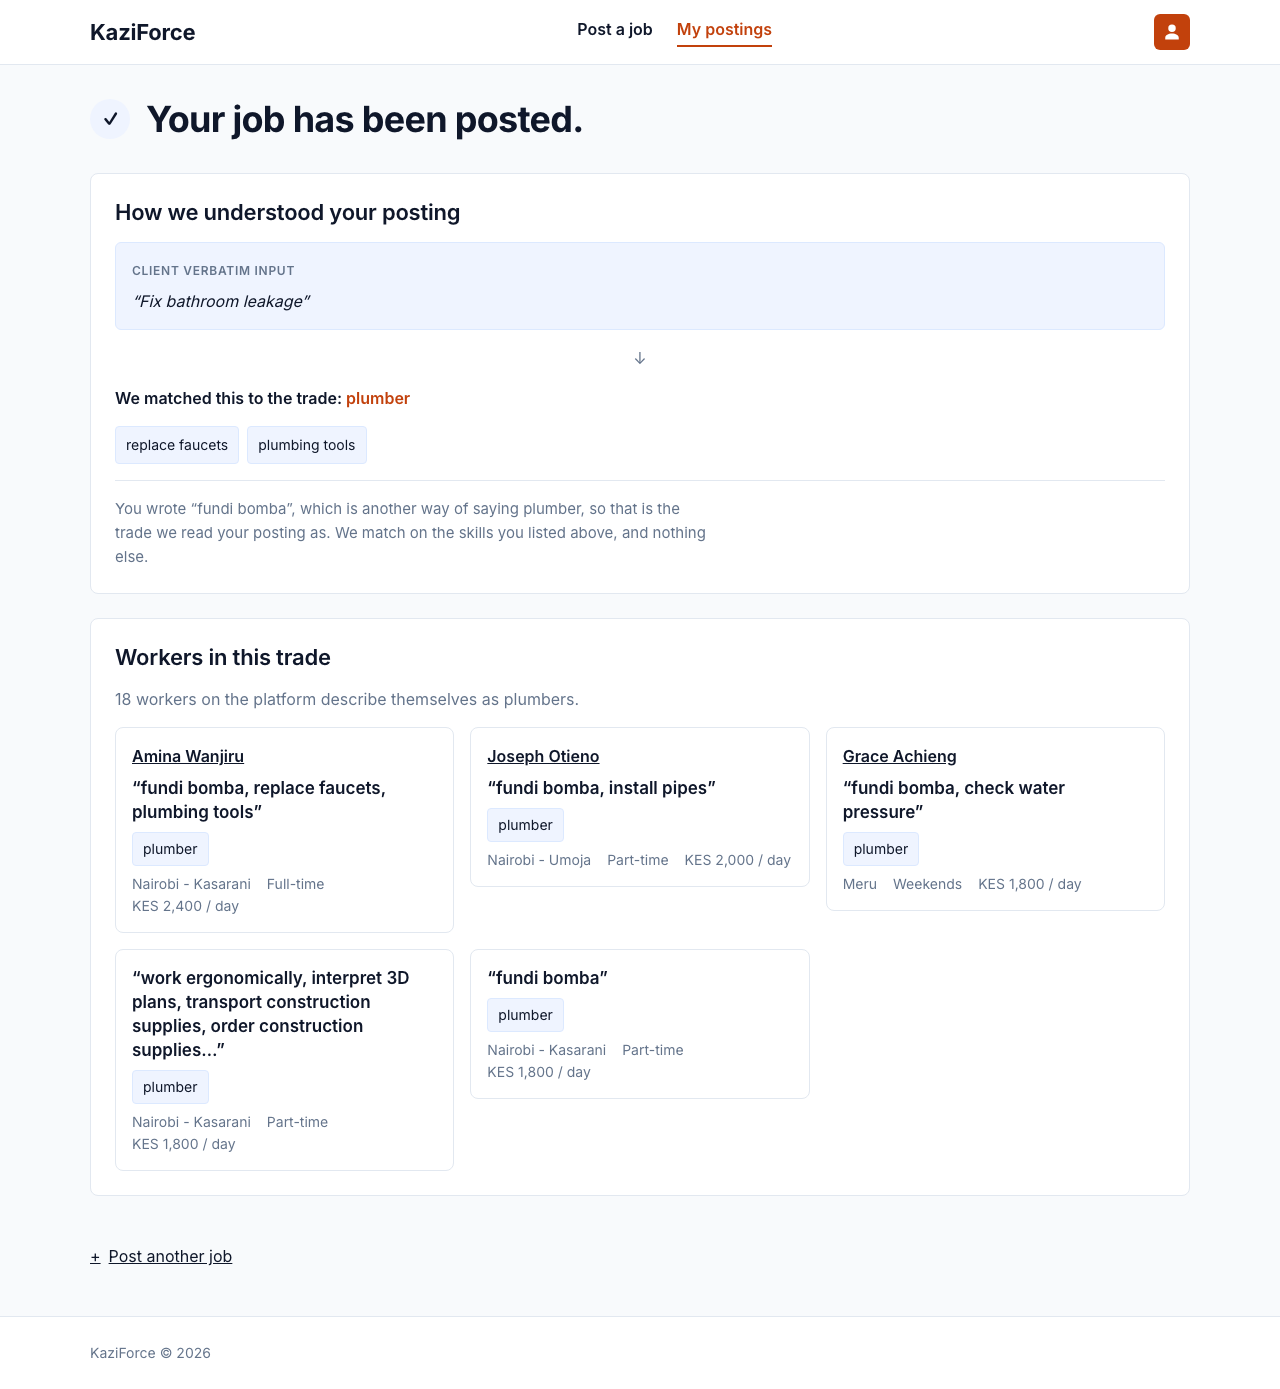
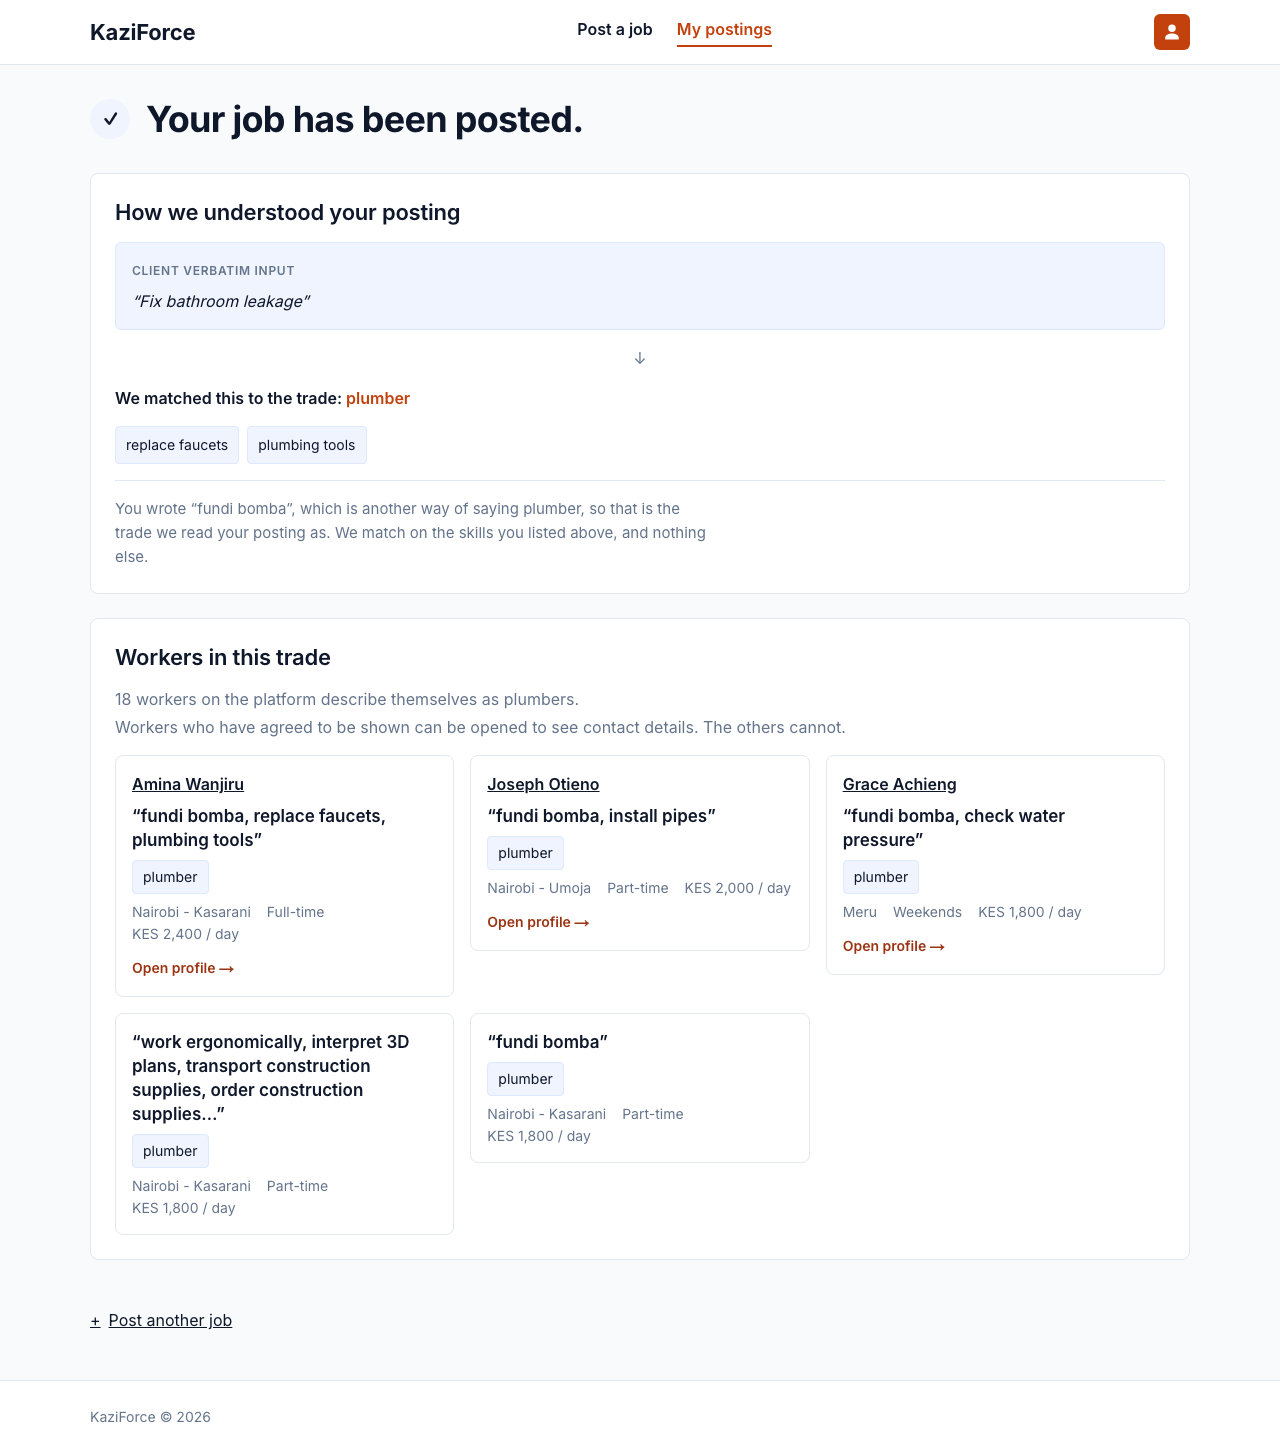
feat(web): a working-pattern field that says what it is, and trade-list cards that look openable
The job form's "When is it needed?" held a working pattern (Full-time, Part-time,
Weekends) that the scorer compares with a worker's availability. It is now labelled
"What working pattern does the job need?", the empty choice reads "No fixed pattern"
(also on the postings list), and a hint says what it is compared with. The stored option
values are unchanged and there is no date field.

On the posted-job screen, a sentence under "Workers in this trade" says which workers can
be opened. A worker who agreed to be shown is an openable card: the whole card is the link,
with an "Open profile" cue, a pointer, a visible focus outline and a tall target. Plain
cards stay plain; which workers appear, their number and their order are unchanged.

The demo seed gains two consenting workers each for carpenter, electrician and cook
(700 000 004 to 009), using the Kiswahili terms the vocabulary maps. seed_database.py and
the dataset are untouched.

Tests: component and end-to-end (both engines; they fail without the change), and a unit
test for the demo workers. One WorkerCard assertion changed on purpose: a named card now
adds an openable style.

diff --git a/apps/web/__tests__/PostingResultPage.test.tsx b/apps/web/__tests__/PostingResultPage.test.tsx
@@ -28,6 +28,8 @@ vi.mock("@/components/SessionProvider", async (importOriginal) => ({
 vi.mock("@/components/AppShell", () => ({ AppShell: ({ children }: { children: React.ReactNode }) => <>{children}</> }));
 
 const PLUMBER = { id: "occ:plumber", label: "plumber" };
+const NAMED = { describes_as: "fundi bomba", location: "Nairobi - Kasarani", availability: "Full-time" as const, rate_expectation: 2400, public_id: "11111111-2222-4333-8444-555555555555", name: "Amina Wanjiru" };
+const ANONYMOUS = { describes_as: "fundi bomba, install pipes", location: "Meru", availability: "Weekends" as const, rate_expectation: 1800 };
 const PARAMS = Promise.resolve({ postingId: "p-1" });
 
 function posting(over: Partial<JobInterpretation["interpretation"]>): JobInterpretation {
@@ -79,5 +81,30 @@ describe("a posting with skills listed", () => {
     expect(await screen.findByText(/We match on the skills you listed above, and nothing else/)).toBeInTheDocument();
     expect(screen.getByText("replace faucets")).toBeInTheDocument();
     expect(screen.queryByText(/You didn't list any skills/)).not.toBeInTheDocument();
+  });
+});
+
+describe("Workers in this trade", () => {
+  const shown = (sample: unknown[]) => posting({ worker_pool: [{ occupation: PLUMBER, workers: 18, sample: sample as never }] });
+
+  it("says which workers can be opened and which cannot, under the heading", async () => {
+    job.mockResolvedValue(shown([NAMED, ANONYMOUS]));
+    await show();
+
+    const heading = await screen.findByRole("heading", { name: "Workers in this trade" });
+    const note = screen.getByText("Workers who have agreed to be shown can be opened to see contact details. The others cannot.");
+    expect(heading.compareDocumentPosition(note) & Node.DOCUMENT_POSITION_FOLLOWING).toBeTruthy();
+  });
+
+  it("makes a worker who agreed an openable card, and leaves the others plain, in the order given", async () => {
+    job.mockResolvedValue(shown([ANONYMOUS, NAMED]));
+    await show();
+
+    const cards = await screen.findAllByRole("article");
+    expect(cards).toHaveLength(2);
+    expect(cards[0].textContent).toContain("install pipes"); // the order the API returned
+    expect(cards[0].querySelector("a")).toBeNull();
+    expect(cards[1].querySelector("a")).toHaveAccessibleName("Amina Wanjiru");
+    expect(screen.getAllByRole("link", { name: "Amina Wanjiru" })).toHaveLength(1);
   });
 });

diff --git a/apps/web/e2e/worker-contact.spec.ts b/apps/web/e2e/worker-contact.spec.ts
@@ -202,3 +202,37 @@ test("a signed-out visitor cannot open a worker's page", async ({ page }) => {
   await page.goto("/client/workers/00000000-0000-4000-8000-00000000dead");
   await expect(page).toHaveURL(/\/sign-in$/);
 });
+
+test("the trade list says which workers can be opened, and an openable card is one big, visible target", async ({ browser }) => {
+  const { context, page } = await newClient(browser);
+  await postPlumbingJob(page);
+
+  await expect(
+    view(page).getByText("Workers who have agreed to be shown can be opened to see contact details. The others cannot."),
+  ).toBeVisible();
+
+  const cards = view(page).locator("article");
+  const openable = cards.filter({ has: page.getByRole("link", { name: "Amina Wanjiru" }) });
+  const plain = cards.filter({ hasNot: page.getByRole("link") }).first();
+  await expect(openable).toBeVisible();
+  await expect(plain).toBeVisible();
+
+  // Visibly clickable: a cue on the card, a pointer, and a target well over 44 px high.
+  await expect(openable).toContainText("Open profile");
+  await expect(plain).not.toContainText("Open profile");
+  expect(await openable.evaluate((el) => getComputedStyle(el).cursor)).toBe("pointer");
+  expect(await plain.evaluate((el) => getComputedStyle(el).cursor)).not.toBe("pointer");
+  expect((await openable.boundingBox())!.height).toBeGreaterThanOrEqual(44);
+
+  // Keyboard: the name link takes focus and the card shows it.
+  await openable.getByRole("link", { name: "Amina Wanjiru" }).focus();
+  await expect(openable.getByRole("link", { name: "Amina Wanjiru" })).toBeFocused();
+  expect(await openable.evaluate((el) => getComputedStyle(el).outlineStyle)).not.toBe("none");
+
+  // The whole card opens the profile, not only the name.
+  const box = (await openable.boundingBox())!;
+  await page.mouse.click(box.x + box.width - 12, box.y + box.height - 12);
+  await expect(page).toHaveURL(/\/client\/workers\/[0-9a-f-]{36}\?posting=/);
+  await expect(view(page).getByRole("heading", { name: "Amina Wanjiru" })).toBeVisible();
+  await context.close();
+});

diff --git a/apps/web/__tests__/WorkerCard.test.tsx b/apps/web/__tests__/WorkerCard.test.tsx
@@ -88,11 +88,29 @@ describe("WorkerCard for a worker who has agreed to be shown", () => {
     expect(container.textContent).not.toMatch(/score|rank|match|best|top|#\d/i);
   });
 
-  it("is drawn the same as an anonymous card: one article, no emphasis", () => {
+  it("is still one article, drawn no larger than an anonymous card; the only difference is that it can be opened", () => {
     const { container: plain } = render(<WorkerCard worker={worker} trade="electrician" />);
     const { container: withName } = render(<WorkerCard worker={named} trade="electrician" />);
     expect(plain.querySelectorAll("article")).toHaveLength(1);
     expect(withName.querySelectorAll("article")).toHaveLength(1);
-    expect(withName.querySelector("article")?.className).toBe(plain.querySelector("article")?.className);
+    // Both share the base card style, so neither is larger or earlier; the named one adds only the openable style.
+    const named_ = withName.querySelector("article")!.className.split(" ").filter(Boolean);
+    const plain_ = plain.querySelector("article")!.className.split(" ").filter(Boolean);
+    expect(plain_).toHaveLength(1);
+    expect(named_.slice(0, 1)).toEqual(plain_);
+    expect(named_).toHaveLength(2);
+  });
+
+  it("looks openable: a link on the name, and a visible \"Open profile\" cue that is not read twice", () => {
+    const { container } = render(<WorkerCard worker={named} trade="electrician" />);
+    expect(screen.getByRole("link", { name: named.name! })).toHaveAttribute("href", expect.stringContaining("/client/workers/"));
+    const cue = container.querySelector('[aria-hidden="true"]');
+    expect(cue).toHaveTextContent("Open profile");
+  });
+
+  it("gives a card that cannot be opened no link and no cue", () => {
+    const { container } = render(<WorkerCard worker={worker} trade="electrician" />);
+    expect(screen.queryByRole("link")).not.toBeInTheDocument();
+    expect(container.textContent).not.toMatch(/Open profile/);
   });
 });

diff --git a/apps/web/__tests__/PostJobPage.test.tsx b/apps/web/__tests__/PostJobPage.test.tsx
@@ -163,3 +163,28 @@ describe("the skills field is optional, and the description comes first", () => 
     expect(createJob).not.toHaveBeenCalled();
   });
 });
+
+describe("the working-pattern field says what it is", () => {
+  it("is labelled as a working pattern, offers No fixed pattern, and keeps the stored option values", () => {
+    render(<Page />);
+    const field = screen.getByLabelText(/What working pattern does the job need\?/) as HTMLSelectElement;
+    expect(screen.queryByLabelText(/When is it needed/)).not.toBeInTheDocument();
+    const options = [...field.options].map((option) => [option.value, option.textContent]);
+    expect(options).toEqual([["", "No fixed pattern"], ["Full-time", "Full-time"], ["Part-time", "Part-time"], ["Weekends", "Weekends"]]);
+    expect(screen.queryByText(/No strict timeline/)).not.toBeInTheDocument();
+  });
+
+  it("sends the value as before, and nothing when it is left empty", async () => {
+    createJob.mockResolvedValue({ posting_id: "p-5" });
+    render(<Page />);
+    await userEvent.type(screen.getByLabelText(/What do you need done\?/), "Electrician needed, a socket keeps sparking");
+    await userEvent.type(screen.getByLabelText(/Job title/), "Fix a socket");
+    await userEvent.type(screen.getByLabelText(/Budget per day/), "1500");
+    await userEvent.selectOptions(screen.getByLabelText(/Where is the job\?/), "Nairobi - Kasarani");
+    await userEvent.selectOptions(screen.getByLabelText(/What working pattern does the job need\?/), "Weekends");
+    await userEvent.click(screen.getByRole("button", { name: /Post job/ }));
+
+    await waitFor(() => expect(createJob).toHaveBeenCalled());
+    expect(createJob.mock.calls[0][0]).toMatchObject({ availability: "Weekends" });
+  });
+});

diff --git a/apps/web/e2e/core-workflow.spec.ts b/apps/web/e2e/core-workflow.spec.ts
@@ -429,3 +429,29 @@ test("at 375px the matches list gives a job's title the row, and the header's li
     expect(box!.height, `"${await link.innerText()}" wraps`).toBeLessThan(34); // one line of 16 px text plus its underline
   }
 });
+
+test("the job form asks for a working pattern, not a date, and still stores the same values", async ({ page }) => {
+  await createAccount(page, "client");
+  await expect(page).toHaveURL(/\/client\/post$/);
+
+  const field = view(page).getByLabel(/What working pattern does the job need\?/);
+  await expect(field).toBeVisible();
+  await expect(view(page).getByLabel(/When is it needed/)).toHaveCount(0);
+  expect(await field.locator("option").evaluateAll((options) => options.map((o) => [(o as HTMLOptionElement).value, o.textContent]))).toEqual([
+    ["", "No fixed pattern"],
+    ["Full-time", "Full-time"],
+    ["Part-time", "Part-time"],
+    ["Weekends", "Weekends"],
+  ]);
+
+  // A pattern chosen here is what the posting keeps.
+  await view(page).getByLabel("What do you need done?").fill("Electrician needed, a socket keeps sparking");
+  await view(page).getByLabel("Job title").fill("Fix a socket");
+  await view(page).getByLabel(/Budget per day/).fill("1500");
+  await view(page).getByLabel(/Where is the job\?/).selectOption("Nairobi - Kawangware");
+  await field.selectOption("Weekends");
+  await view(page).getByRole("button", { name: /Post job/ }).click();
+  await expect(page).toHaveURL(/\/client\/postings\/[0-9a-f-]+$/);
+  await page.getByRole("link", { name: "My postings" }).click();
+  await expect(view(page).getByText("Weekends")).toBeVisible();
+});

diff --git a/apps/web/app/client/post/page.tsx b/apps/web/app/client/post/page.tsx
@@ -24,8 +24,11 @@ import { SUGGESTED_LOCATIONS } from "@/lib/locations";
 import { AVAILABILITY, type Availability } from "@/lib/types";
 import styles from "./page.module.css";
 
-/** The design's wording for "no availability stated". */
-const NO_TIMELINE = "No strict timeline";
+/**
+ * The field holds a working pattern (Full-time, Part-time, Weekends), which the scorer compares with a worker's
+ * availability. It is not a date, and the option values are what the API stores. Only the label says so.
+ */
+const NO_PATTERN = "No fixed pattern";
 
 export default function Page() {
   const waiting = useGuard("client");
@@ -156,11 +159,12 @@ export default function Page() {
               error={errors.location}
             />
             <Select
-              label="When is it needed?"
+              label="What working pattern does the job need?"
               value={availability}
               onChange={setAvailability}
               options={AVAILABILITY}
-              placeholder={NO_TIMELINE}
+              placeholder={NO_PATTERN}
+              hint="Compared with when each worker is available."
               error={errors.availability}
             />
           </div>

diff --git a/apps/web/components/WorkerCard.tsx b/apps/web/components/WorkerCard.tsx
@@ -23,8 +23,9 @@ export function WorkerCard({ worker, trade, postingId }: { worker: TradeWorker; 
     : null;
 
   return (
-    <article className={styles.card}>
+    <article className={`${styles.card} ${href && worker.name ? styles.openable : ""}`}>
       {href && worker.name && (
+        // The link's own box is stretched over the whole card (see .name::after), so the card is one target.
         <Link className={styles.name} href={href}>
           {worker.name}
         </Link>
@@ -36,6 +37,11 @@ export function WorkerCard({ worker, trade, postingId }: { worker: TradeWorker; 
         <span>{worker.availability ?? "Availability not stated"}</span>
         <span>{worker.rate_expectation === null ? "Rate not stated" : formatKes(worker.rate_expectation)}</span>
       </p>
+      {href && worker.name && (
+        <span className={styles.open} aria-hidden="true">
+          Open profile →
+        </span>
+      )}
     </article>
   );
 }

diff --git a/apps/web/components/WorkerCard.module.css b/apps/web/components/WorkerCard.module.css
@@ -39,3 +39,39 @@
   font-weight: 600;
   text-decoration: underline;
 }
+
+/* A card that can be opened looks like something to press: the name link covers the whole card, the card
+   answers the pointer and the keyboard, and the target is well over 44 px high. Cards that cannot be opened
+   keep the plain style above. */
+.openable {
+  position: relative;
+  min-height: 44px;
+  cursor: pointer;
+}
+
+.openable:hover {
+  border-color: var(--primary);
+  background: var(--tint);
+}
+
+.openable:focus-within {
+  outline: 2px solid var(--primary);
+  outline-offset: 2px;
+}
+
+.name {
+  min-height: 24px;
+}
+
+.openable .name::after {
+  content: "";
+  position: absolute;
+  inset: 0;
+}
+
+.open {
+  margin-top: var(--space-xs);
+  font-size: 14px;
+  font-weight: 600;
+  color: var(--primary-hover);
+}

diff --git a/apps/web/app/client/postings/[postingId]/page.tsx b/apps/web/app/client/postings/[postingId]/page.tsx
@@ -155,6 +155,9 @@ function Posting({ params }: { params: Promise<{ postingId: string }> }) {
             {pool.workers} {pool.workers === 1 ? "worker" : "workers"} on the platform describe themselves as{" "}
             {trade.label}s.
           </p>
+          <p className={styles.poolNote}>
+            Workers who have agreed to be shown can be opened to see contact details. The others cannot.
+          </p>
           <ul className={styles.workers}>
             {pool.sample.map((worker, index) => (
               <li key={`${index}-${worker.describes_as}`}>

diff --git a/apps/web/app/client/postings/page.tsx b/apps/web/app/client/postings/page.tsx
@@ -79,7 +79,7 @@ export default function Page() {
                         {[
                           posting.location ?? "Location not stated",
                           formatKes(posting.budget),
-                          posting.availability ?? "No strict timeline",
+                          posting.availability ?? "No fixed pattern",
                         ].join(" · ")}
                         {posting.trades.length > 0 && (
                           <>

diff --git a/apps/web/app/client/postings/[postingId]/page.module.css b/apps/web/app/client/postings/[postingId]/page.module.css
@@ -90,6 +90,11 @@
 
 .poolCount {
   color: var(--muted);
+  margin-bottom: var(--space-xs);
+}
+
+.poolNote {
+  color: var(--muted);
   margin-bottom: var(--space-md);
 }
 

diff --git a/apps/api/src/kaziforce_api/data/demo.py b/apps/api/src/kaziforce_api/data/demo.py
@@ -1,14 +1,15 @@
 """
-Three demo worker accounts in one trade, each with a name and consent, so a client's job-posted
-screen has named cards to open.
+Demo worker accounts, each with a name and consent, so a client's job-posted screen has named cards to
+open: three plumbers (700 000 001 to 003, the ones the end-to-end tests rely on) and two each in
+carpenter, electrician and cook (004 to 009), so a demonstration of those trades also has someone to open.
 
-These are made up: the names, and numbers in the 0700 000 00x range. Kenya has no range reserved
+These are made up: the names, and numbers in the 0700 000 0xx range. Kenya has no range reserved
 for fiction, so a number here is *probably* unassigned and not guaranteed to be; do not ring them.
 The PIN is the same for all three and is public (it is in this file), which is fine for a demo and
 is the reason none of this belongs on a deployed database.
 
 A trade list shows the first five workers in the trade by worker_id, which is random for anyone
-who signs up. A demo worker would usually fall outside those five, so these three are given
+who signs up. A demo worker would usually fall outside those five, so these are given
 worker_ids that sort ahead of every random one. That is a demo accommodation, not a feature: it
 changes which workers are in the sample, which is arbitrary anyway, and nothing else.
 """
@@ -38,6 +39,7 @@ class DemoWorker:
     location: str
     availability: str
     rate: float
+    trade: str = "plumber"
 
 
 DEMO_WORKERS = (
@@ -53,6 +55,32 @@ DEMO_WORKERS = (
                ("fundi bomba", "check water pressure"),
                "Plumber with four years in rental flats. Naweza kuanza wikendi.",
                "Meru", "Weekends", 1800),
+    # Each uses the accepted Kiswahili term for the trade (fundi wa mbao, fundi wa umeme, mpishi), which the
+    # knowledge graph maps to the occupation, so each reaches its trade in a client's list.
+    DemoWorker("700000004", "Peter", "Kamau", "00000000-0000-4000-8000-00000000d004",
+               ("fundi wa mbao", "wood cuts", "apply wood finishes"),
+               "Fundi wa mbao, kitchen cabinets and doors. Furniture repairs in Nairobi.",
+               "Nairobi - Embakasi", "Full-time", 2600, "carpenter"),
+    DemoWorker("700000005", "Esther", "Njeri", "00000000-0000-4000-8000-00000000d005",
+               ("fundi wa mbao", "use measurement instruments"),
+               "Carpenter for roof trusses and shelving. Naweza kufanya kazi wikendi.",
+               "Nakuru", "Weekends", 2200, "carpenter"),
+    DemoWorker("700000006", "David", "Mwangi", "00000000-0000-4000-8000-00000000d006",
+               ("fundi wa umeme", "install electricity sockets", "splice cable"),
+               "Fundi wa umeme, house wiring and distribution boards. Five years on rental flats.",
+               "Nairobi - Kasarani", "Full-time", 3000, "electrician"),
+    DemoWorker("700000007", "Faith", "Wambui", "00000000-0000-4000-8000-00000000d007",
+               ("fundi wa umeme", "install electricity sockets"),
+               "Electrician for sockets, lighting and fault-finding in shops. Part-time.",
+               "Nyeri", "Part-time", 2400, "electrician"),
+    DemoWorker("700000008", "Hassan", "Ali", "00000000-0000-4000-8000-00000000d008",
+               ("mpishi", "prepare dishes"),
+               "Mpishi wa harusi na sherehe. Cook for events, from fifty to two hundred guests.",
+               "Mombasa", "Weekends", 2800, "cook"),
+    DemoWorker("700000009", "Mary", "Atieno", "00000000-0000-4000-8000-00000000d009",
+               ("mpishi", "cook meals"),
+               "Mpishi wa mgahawa mdogo. Cook for a small restaurant, breakfast and lunch.",
+               "Kisumu", "Full-time", 1800, "cook"),
 )
 
 
